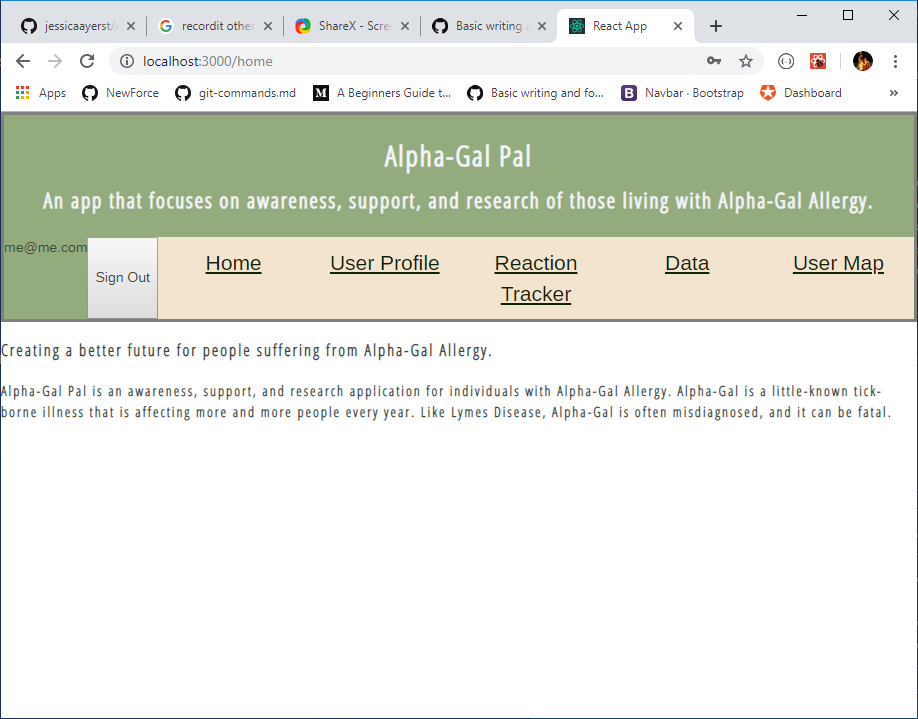
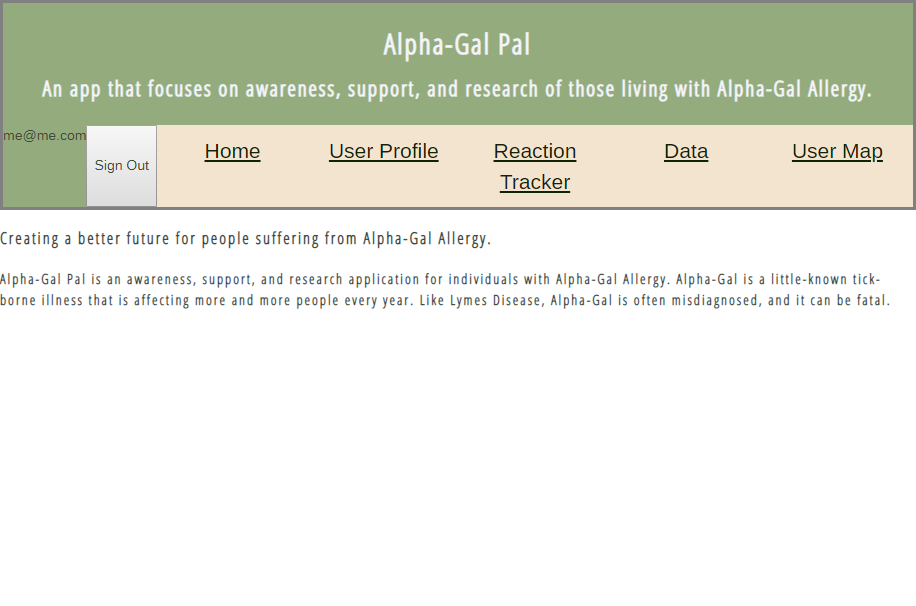
finished read me

diff --git a/README.md b/README.md
@@ -5,8 +5,8 @@ This application was created to help people with Alpha-Gal allergy (red meat all
 ## Motivation
 
  Alpha-Gal allergy is a little-known tick-borne illness that is affecting more and more people every year. Like Lymes Disease, Alpha-Gal is often misdiagnosed, and it can be fatal. Since so little information about Alpha-Gal allergy exists, this project is an attempt to spread awareness about the disease, while also offering support to the people suffering from it.
+![](src/components/images/homeScreen.png)
 
-## Screenshots
 
 ## Tech/Framework Used
 
@@ -125,10 +125,13 @@ import SimpleMap from './data/publicZipCodeMap.js'
 ## How to Use?
 
 1. Once you are logged in with Auth0, create a User Profile, by clicking "Edit User Profile".
-![first](firstGif.gif)
+![Alt Text](src/components/images/firstGif.gif)
 2. Then go to the "Symptom Tracker" page and click "Input New Allergen". Here, you can add the details of the allergic reactions you have had. These will be listed in chronological order, by the most recent reaction.
+![Alt Text](src/components/images/secondGif.gif)
 3. The "Data Results" page will show you real-time data, which is gathered from all users who have given permission for their data to be used in the research project.
+![Alt Text](src/components/images/thirdGif.gif)
 4. Clicking on the "User Map" page will show you the locations of all current registered users.
+![Alt Text](src/components/images/lastGif.gif)
 
 ## How to Contribute?
 
